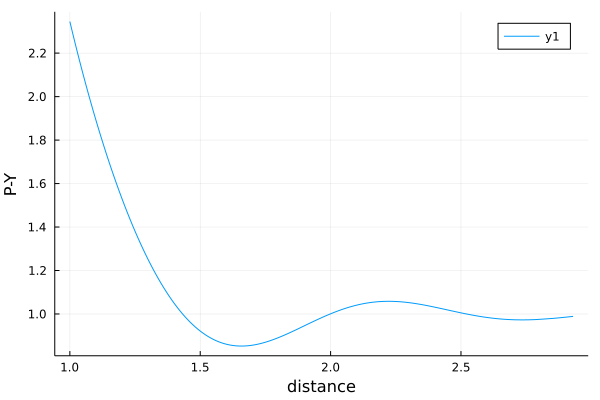
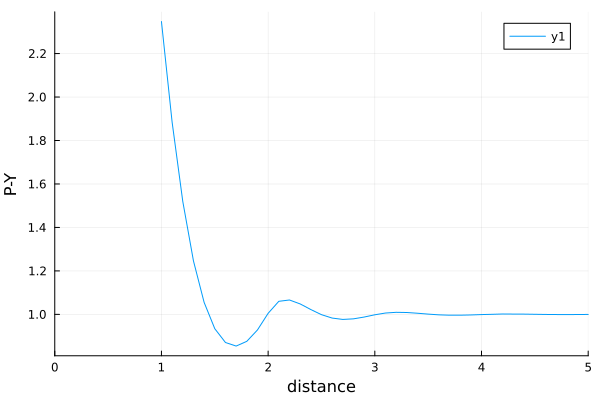
wrote numerical calculation for structure factor. Needs testing

diff --git a/README.md b/README.md
@@ -81,7 +81,7 @@ rs = 0.0:0.4:8.0
 pair = DiscretePairCorrelation(particles, rs)
 
 # If you have the Plots package
-plot(pair.r, 1 .+ pair.dp)
+plot(pair.r, pair.g)
 ```
 ![../example_random_particles.png](docs/src/assets/example_random_particles.png)
 
@@ -116,7 +116,7 @@ s = Specie(
 pair = DiscretePairCorrelation(s, pairtype, rs)
 
 # If you have the Plots package
-plot(pair.r, 1 .+ pair.dp)
+plot(pair.r, pair.g)
 ```
 ![../monte-carlo-pair.png](docs/src/assets/monte-carlo-pair.png)
 
@@ -126,7 +126,7 @@ plot(pair.r, 1 .+ pair.dp)
 Let us consider a material filled with only one type of particle and use the Percus-Yevick approximation to calculate the pair-correlation for 3D hard spheres. That is, sphere which do not attract of repel each other. For details see [Notes on Percus-Yevick](docs/src//theory/P-Y.pdf) [2].
 ```julia
 # choose the type of pair correlation
-pairtype = PercusYevick(3; rtol = 1e-2, maxlength = 200)
+pairtype = PercusYevick(3; rtol = 1e-3, maxlength = 200)
 
 # Percus-Yevick is currently implemented only for 3D. So we need to change the type of particle
 
@@ -144,7 +144,7 @@ We can plot the result of the Percus-Yevick approximation with the package Plots
 ```julia
 using Plots
 
-plot(pair.r, 1.0 .+ pair.dp,
+plot(pair.r, pair.g,
     xlab = "distance", ylab = "P-Y"
 )
 ```
